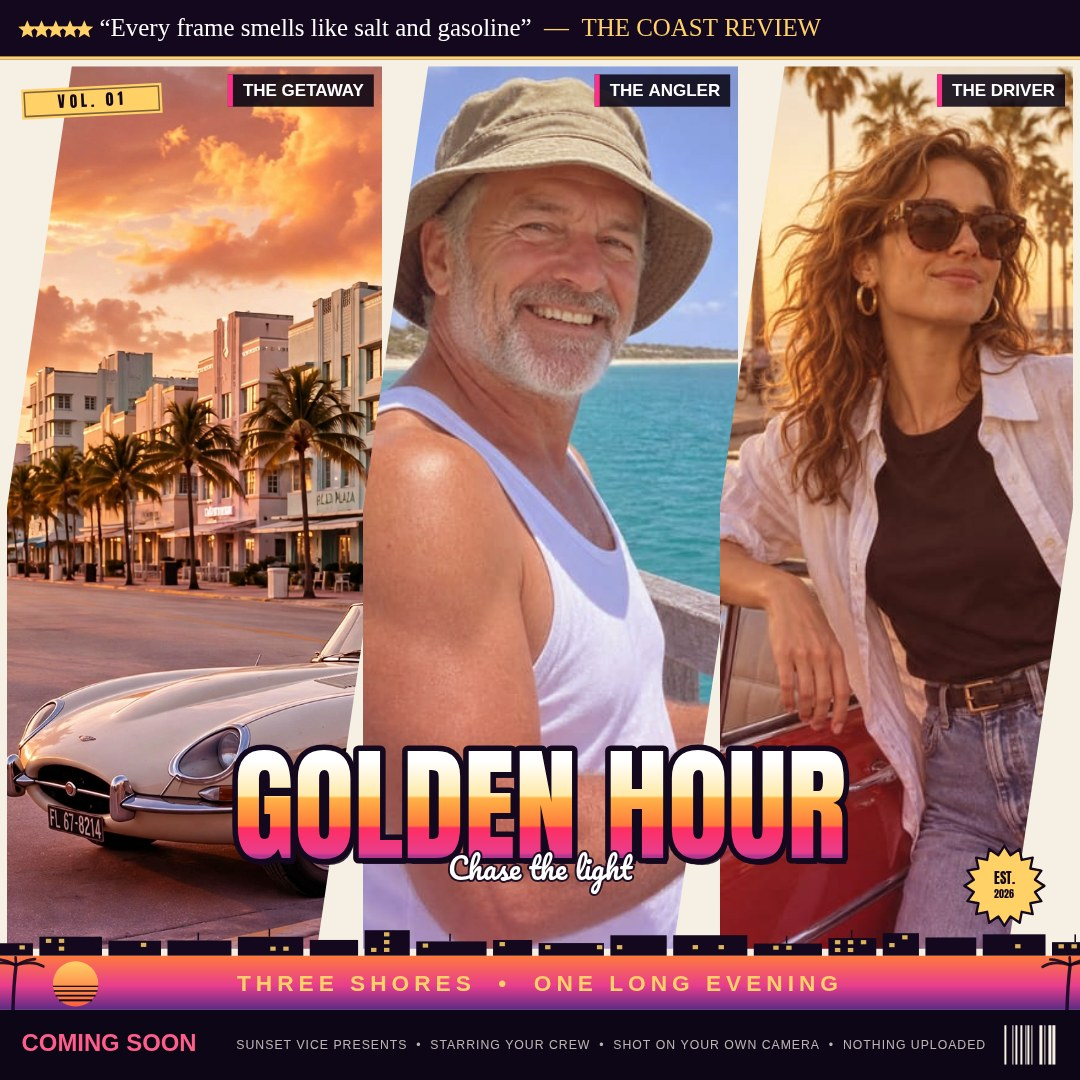
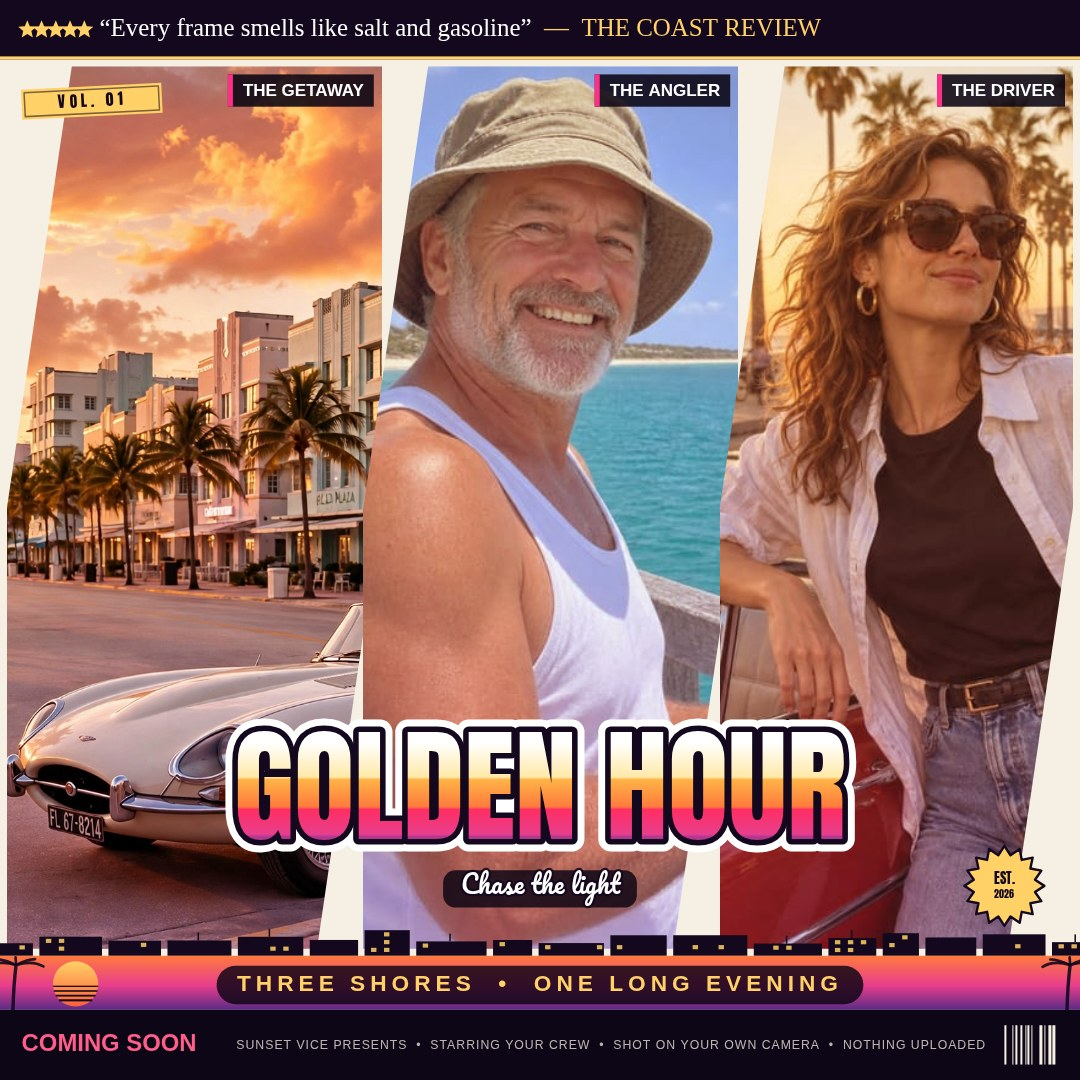
Fix unreadable text: measured WCAG contrast, all elements pass
Title: add white halo (20% stroke) outside the dark outline so the
striped chrome fill reads over any photo (per-pixel max p5 4.5-4.9:1,
0% of background points below 3:1; was 11-25% failing).

Tagline: move fully below the title halo onto a dark scrim pill
(rgba(10,4,18,0.82)) and move the title up to make room; white script
vs scrim now 14.4-19.0:1 (was 1.7-3.3:1 over bright photo).

Eyebrow: dark scrim pill behind the gold text on the sunset banner
(5.8-10.8:1; was 2.3:1); navy banner unchanged (9.9:1).

Editor: darken primary button gradient (#c2410c to #be185d, 5.2:1,
was 2.7:1) and give the ghost button a dark backing (4.5:1).

All other text already passed (quote 19.4, tags 16.7-20.3, tape/badge
12.6-13.0, COMING SOON 6.9, billing 8.9-9.8). Screenshots re-shot,
0 console errors, dossier text 55,581/163,840 B.

Changed region(s): [[0.1833, 0.6417, 0.7944, 0.8556], [0.1833, 0.8861, 0.7944, 0.9472]]

diff --git a/app/src/render.js b/app/src/render.js
@@ -531,15 +531,49 @@ export function drawCover(canvas, photos, state) {
   const titleSize = title
     ? fitFont(ctx, title, W * 0.96, Math.min(W * 0.115, photoH * 0.24), FONT_DISPLAY)
     : 0;
-  const titleY = tagY - skyH - titleSize * 0.86;
+  const titleY = tagY - skyH - titleSize * 1.01;
+  // Tagline geometry, shared by its scrim (drawn under the title) and the
+  // text itself (drawn over it). The tagline sits FULLY below the title's
+  // white halo: its ascender tops clear the halo's bottom edge, so no
+  // white script ever lands on the white halo. The title moved up to
+  // make room without touching the bottom-row role tags.
+  const tgSize = title ? Math.max(14, titleSize * 0.20) : 0;
+  const tgBase = titleY + titleSize * 0.72;
+  let tgW = 0;
+  if (state.tagline && tgSize) {
+    ctx.font = `${tgSize}px ${FONT_SCRIPT}`;
+    tgW = ctx.measureText(state.tagline).width;
+  }
+  if (state.tagline && tgSize) {
+    // Dark scrim pill behind the script: white Pacifico over bright photo
+    // (white shirt, bright sky) measured 1.7–3.3:1 without it. The pill
+    // sits just below the title's halo with a small gap.
+    const padX = tgSize * 0.7;
+    const padT = tgSize * 0.95;
+    const padB = tgSize * 0.55;
+    const sx = cx - tgW / 2 - padX;
+    const sy = tgBase - padT;
+    const sw = tgW + padX * 2;
+    const sh = padT + padB;
+    ctx.save();
+    ctx.fillStyle = 'rgba(10,4,18,0.82)';
+    ctx.beginPath();
+    if (typeof ctx.roundRect === 'function') ctx.roundRect(sx, sy, sw, sh, Math.min(sh / 2, tgSize * 0.5));
+    else ctx.rect(sx, sy, sw, sh);
+    ctx.fill();
+    ctx.restore();
+  }
   if (title) {
     ctx.font = `${titleSize}px ${FONT_DISPLAY}`;
     ctx.textAlign = 'center';
     ctx.textBaseline = 'middle';
     ctx.lineJoin = 'round';
-    // Drop shadow pass, then dark outline, then the striped chrome fill.
-    ctx.fillStyle = 'rgba(20,8,31,0.85)';
-    ctx.fillText(title, cx + titleSize * 0.03, titleY + titleSize * 0.05);
+    // Double outline: the white outer ring reads against dark photos, the
+    // dark inner ring against bright ones. The chrome fill alone fails at
+    // both ends — pale top over bright sky, purple bottom over dark water.
+    ctx.strokeStyle = '#ffffff';
+    ctx.lineWidth = Math.max(2, titleSize * 0.20);
+    ctx.strokeText(title, cx, titleY);
     ctx.strokeStyle = '#14081f';
     ctx.lineWidth = Math.max(2, titleSize * 0.09);
     ctx.strokeText(title, cx, titleY);
@@ -547,18 +581,17 @@ export function drawCover(canvas, photos, state) {
     ctx.fillText(title, cx, titleY);
   }
   if (state.tagline) {
-    // The script overlaps the title's lower edge, poster-style, and stays
-    // clear of the bottom-row role tags.
-    const tgSize = Math.max(14, titleSize * 0.23);
+    // The script sits on its dark scrim just below the title, clear of
+    // the halo above and the bottom-row role tags below.
     ctx.font = `${tgSize}px ${FONT_SCRIPT}`;
     ctx.textAlign = 'center';
     ctx.textBaseline = 'alphabetic';
     ctx.lineJoin = 'round';
     ctx.strokeStyle = 'rgba(20,8,31,0.9)';
-    ctx.lineWidth = Math.max(2, tgSize * 0.14);
-    ctx.strokeText(state.tagline, cx, titleY + titleSize * 0.46);
+    ctx.lineWidth = Math.max(2, tgSize * 0.18);
+    ctx.strokeText(state.tagline, cx, tgBase);
     ctx.fillStyle = '#ffffff';
-    ctx.fillText(state.tagline, cx, titleY + titleSize * 0.46);
+    ctx.fillText(state.tagline, cx, tgBase);
   }
 
   // Tape label (top-left of the photo area) + seal (bottom-right).
@@ -603,6 +636,22 @@ export function drawCover(canvas, photos, state) {
       ebSize2 -= 1;
       ctx.font = `700 ${ebSize2}px "Arial Narrow", sans-serif`;
       try { ctx.letterSpacing = `${Math.max(2, ebSize2 * 0.22)}px`; } catch (e) { /* older canvas */ }
+    }
+    if (state.banner === 'sunset') {
+      // Dark scrim pill behind the gold text: gold on the orange-pink
+      // gradient measured 2.3:1. The navy banner needs none (gold on
+      // near-black already passes).
+      const ebW = ctx.measureText(state.eyebrow.toUpperCase()).width;
+      const padX = ebSize2 * 0.9;
+      const eby = by + tagH * 0.54;
+      const eh = ebSize2 * 1.7;
+      ctx.save();
+      ctx.fillStyle = 'rgba(10,4,18,0.82)';
+      ctx.beginPath();
+      if (typeof ctx.roundRect === 'function') ctx.roundRect(cx - ebW / 2 - padX, eby - eh / 2, ebW + padX * 2, eh, eh / 2);
+      else ctx.rect(cx - ebW / 2 - padX, eby - eh / 2, ebW + padX * 2, eh);
+      ctx.fill();
+      ctx.restore();
     }
     ctx.fillText(state.eyebrow.toUpperCase(), cx, by + tagH * 0.54);
     try { ctx.letterSpacing = '0px'; } catch (e) { /* older canvas */ }

diff --git a/app/style.css b/app/style.css
@@ -62,8 +62,8 @@ body {
   padding: 9px 14px; cursor: pointer;
 }
 .btn:hover { border-color: var(--gold); }
-.btn.primary { background: linear-gradient(180deg, #ff7a3d, #e83e8c); color: #fff; border-color: transparent; }
-.btn.ghost { background: transparent; border-color: var(--gold); color: var(--gold); }
+.btn.primary { background: linear-gradient(180deg, #c2410c, #be185d); color: #fff; border-color: transparent; }
+.btn.ghost { background: rgba(20, 8, 31, 0.65); border-color: var(--gold); color: var(--gold); }
 .btn.small { padding: 6px 10px; font-size: 13px; }
 .btn.active { background: var(--gold); color: #14081f; border-color: var(--gold); }
 
